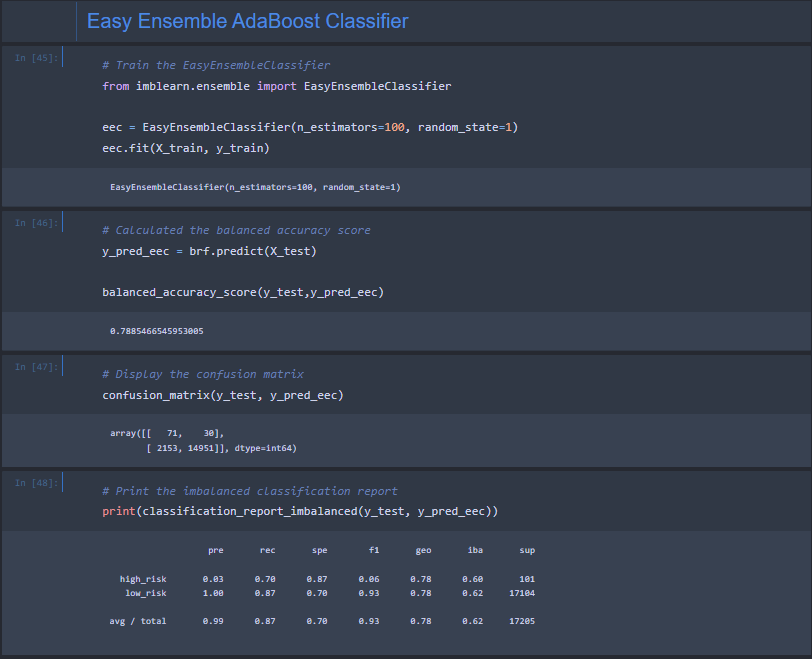
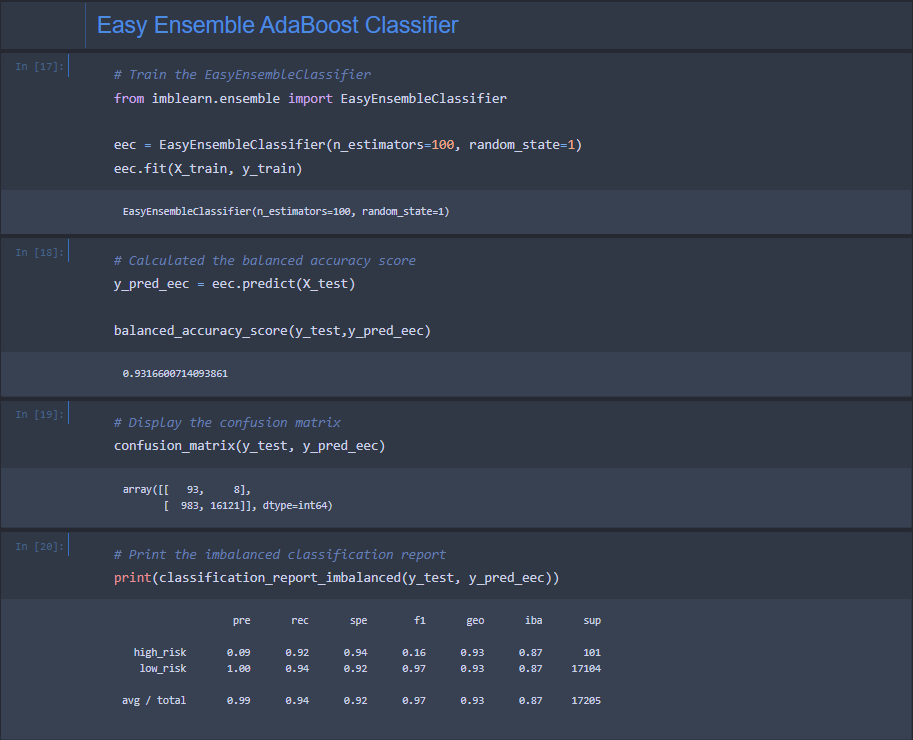
Correct EEC model

diff --git a/README.md b/README.md
@@ -54,6 +54,8 @@
 
 ## Summary:
 
+#### 
+
 
 
 
